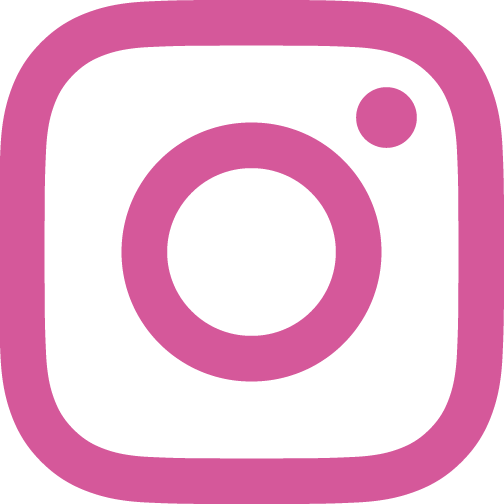
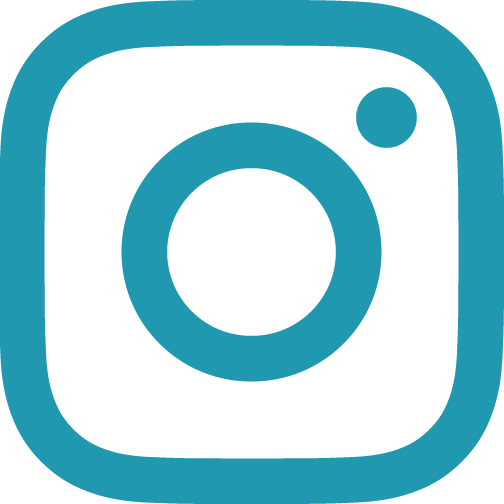
Color scheme change

diff --git a/main.css b/main.css
@@ -7,23 +7,34 @@ Paler Pink		#FAC8D5
 Palest Pink		#FDE4EA
 
 */
+:root {
+	--darkgray: #444;
+	--mediumgray: #aaa;
+	--lightgray: #ddd;
+	--deepblue: #006B80;
+	--mediumblue: #1F98B0;
+	--pastelblue: #55C3D9;
+	--pastelpurple: #C696FA;
+	--pastelpink: #FF93B7;
+	--pastelyellow: #FFCC66;
+}
 
 body {
-	background-color: #FAC8D5;
+	background-color: var(--mediumgray);
 	color: #666;
 	font-family: Arial, Helvetica, sans-serif;
 }
 
 /* Links */
-a { color: #9C22CB; }
+a { color: var(--mediumblue); }
 /* a:visited { color: #AC0C22; } was interfering with nav links */
-a:hover { color: #D5589A; text-decoration: none; }
-a:active { color: #FFB3C7; text-decoration: none; }
+a:hover { color: var(--pastelblue); text-decoration: none; }
+a:active { color: var(--pastelblue); text-decoration: none; }
 
 header {
-	background-color: #6C1FB9;
+	background-color: var(--darkgray);
 	height: 50px;
-	color: #FAC8D5;
+	color: #fff;
 	text-align: center;
 	font-size: 2em;
 	font-weight: bold;
@@ -35,8 +46,7 @@ header {
 }
 
 nav {
-	background-color: #D5589A;
-	background:linear-gradient(0deg, rgba(213,88,154,1) 0%, rgba(156,34,203,1) 100%);
+	background-color: var(--lightgray);
 	text-align: center;
 	height: 100%;
 	width: 20%;
@@ -58,18 +68,19 @@ nav a {
 	margin: 0;
 	text-align: center;
 	text-decoration: none;
-	color: #fff;
+	color: var(--deepblue);
 	font-size: 1.2em;
 	
 }
 
 nav a:hover {
-	color: #FAC8D5;
-	background-color: rgba(255,255,255,0.2);
+	background-color: var(--pastelblue);
+	color: #fff;
+	/* background-color: rgba(255,255,255,0.2); */
 }
 
 nav a:active {
-	color: #000;
+	color: var(--deepblue);
 }
 
 main {
@@ -84,11 +95,11 @@ h1, h2, h3 {
 
 h1 {
 	margin-top: 0;
-	color: #6C1FB9;
+	color: var(--deepblue);
 }
 
-h2 { color: #D5589A; }
-h3 { color: #6C1FB9; }
+h2 { color: var(--mediumblue); }
+h3 { color: var(--mediumgray); }
 
 
 
@@ -100,7 +111,7 @@ h3 { color: #6C1FB9; }
 	margin-left: auto;
 	margin-right: auto;
 	/* box-shadow: horizontal offset, vertical offset, blur radius (optional), default spread distance (optional), color */
-	box-shadow: 3px 3px 2px #D5589A;
+	box-shadow: 3px 3px 2px var(--darkgray);
 }
 
 main {
@@ -110,7 +121,7 @@ main {
 footer {
 	margin-top: 2em;
 	font-family: Goudy Old Style, "Times New Roman", Serif;
-	font-size: 75%;
+	font-size: 90%;
 	font-style: italic;
 	text-align: center;
 	padding: 20px;
@@ -126,10 +137,10 @@ img .me {
 
 /* Quotes */
 .quotebox {
-	background-color: #FDE4EA;
+	background-color: var(--lightgray);
 	padding: 10px;
 	margin: 1em;
-	color: #666;
+	color: var(--darkgray);
 }
 .quotebox p {
 	font-family: "Goudy Old Style", serif;
@@ -174,7 +185,7 @@ img .me {
 /* Progress bars */
 
 .progress {
-	background-color: #FDE4EA;
+	background-color: var(--lightgray);
 	width: 90%;
 	height: 2em;
 	border-radius: 1em;
@@ -182,13 +193,13 @@ img .me {
 }
 .progress span {
 	display: inline-block;
-	background-image: linear-gradient(to right, #FFB3C7, #D5589A);
+	background-image: linear-gradient(to right, var(--mediumblue), var(--deepblue));
 	border-radius: 1em;
 	height: 100%;
 	padding-top: 0.5em;
 	padding-right: 1em;
 	text-align: right;
-	color: #FDE4EA;
+	color: #fff;
 }
 
 
@@ -196,7 +207,7 @@ img .me {
 /* Thanks to https://www.w3schools.com/css/tryit.asp?filename=trycss_image_pic_gallery */
 
 .pic {
-	background-color: #FAC8D5;
+	background-color: var(--lightgray);
 	padding: 10px;
 }
 
@@ -210,10 +221,12 @@ img .me {
 }
 
 .desc {
-	padding: 15px;
+	padding: 1em;
 	text-align: center;
-	color: #6C1FB9;
+	color: var(--darkgray);
 }
+
+/* Clearfix */
 .clearfix:after {
 	content: "";
 	display: table;
